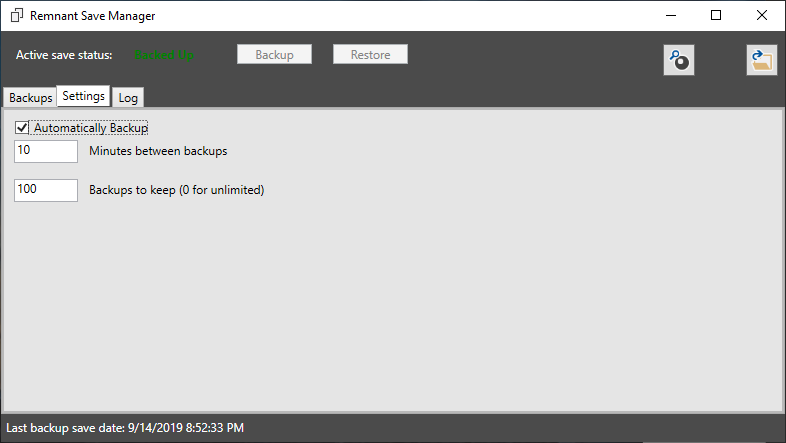
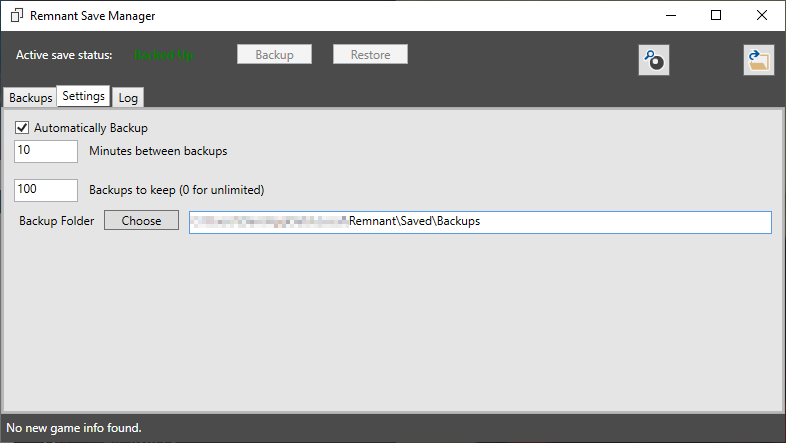
Added support for Leto's Laboratory. Additional behind the scenes bug fixes.

diff --git a/MainWindow.xaml b/MainWindow.xaml
@@ -7,10 +7,6 @@
         mc:Ignorable="d"
         Title="Remnant Save Manager" Height="450" Width="800" Loaded="Window_Loaded" Icon="Resources/Copy_32x.png" Closing="Window_Closing" Closed="Window_Closed">
     <Grid Background="#FF4B4B4B">
-        <Grid.ColumnDefinitions>
-            <ColumnDefinition Width="479*"/>
-            <ColumnDefinition Width="313*"/>
-        </Grid.ColumnDefinitions>
         <Label Content="Active save status:" HorizontalAlignment="Left" Margin="10,10,0,0" VerticalAlignment="Top" Foreground="White"/>
         <Label x:Name="lblStatus" Content="Not Backed Up" HorizontalAlignment="Left" Margin="128,10,0,0" VerticalAlignment="Top" Width="103" Background="#00000000" Foreground="Red" FontWeight="Bold"/>
         <Button x:Name="btnBackup" Content="Backup" HorizontalAlignment="Left" Margin="236,13,0,0" VerticalAlignment="Top" Width="75" Click="BtnBackup_Click"/>
@@ -28,35 +24,27 @@
             </TabItem>
             <TabItem Header="Settings" HorizontalAlignment="Left" Height="20" VerticalAlignment="Top" Width="54">
                 <Grid Background="#FFE5E5E5">
-                    <!--Grid.ColumnDefinitions>
-                        <ColumnDefinition Width="59*"/>
-                        <ColumnDefinition Width="334*"/>
-                    </-->
                     <CheckBox x:Name="chkAutoBackup" Content="Automatically Backup" HorizontalAlignment="Left" Margin="10,10,0,0" VerticalAlignment="Top" Click="ChkAutoBackup_Click" Grid.ColumnSpan="2"/>
                     <TextBox x:Name="txtBackupMins" HorizontalAlignment="Left" Height="23" Margin="10,30,0,0" TextWrapping="Wrap" VerticalAlignment="Top" Width="64" LostFocus="TxtBackupMins_LostFocus" KeyUp="TxtBackupMins_KeyUp"/>
                     <Label Content="Minutes between backups" HorizontalAlignment="Left" Margin="80,27,0,0" VerticalAlignment="Top" Grid.ColumnSpan="2" Width="188"/>
                     <TextBox x:Name="txtBackupLimit" HorizontalAlignment="Left" Height="23" Margin="10,69,0,0" TextWrapping="Wrap" VerticalAlignment="Top" Width="64" KeyUp="TxtBackupLimit_KeyUp" LostFocus="TxtBackupLimit_LostFocus"/>
                     <Label Content="Backups to keep (0 for unlimited)" HorizontalAlignment="Left" Margin="80,66,0,0" VerticalAlignment="Top" Grid.ColumnSpan="2" Width="264"/>
                     <Label Content="Backup Folder" HorizontalAlignment="Left" Margin="10,97,0,0" VerticalAlignment="Top"/>
-                    <TextBox x:Name="txtBackupFolder" HorizontalAlignment="Left" Height="23" Margin="180,101,0,0" TextWrapping="Wrap" VerticalAlignment="Top" Width="596" IsReadOnly="True"/>
+                    <TextBox x:Name="txtBackupFolder" Height="23" Margin="185,101,10,0" TextWrapping="Wrap" VerticalAlignment="Top" IsReadOnly="True"/>
                     <Button x:Name="btnBackupFolder" Content="Choose" HorizontalAlignment="Left" Margin="100,100,0,0" VerticalAlignment="Top" Width="75" Click="BtnBackupFolder_Click"/>
                 </Grid>
             </TabItem>
             <TabItem Header="Log">
                 <Grid>
-                    <Grid.ColumnDefinitions>
-                        <ColumnDefinition Width="68*"/>
-                        <ColumnDefinition Width="325*"/>
-                    </Grid.ColumnDefinitions>
                     <TextBox x:Name="txtLog" TextWrapping="Wrap" Background="White" VerticalScrollBarVisibility="Auto" Grid.ColumnSpan="2"/>
                 </Grid>
             </TabItem>
         </TabControl>
         <Label x:Name="lblLastMessage" Content="" HorizontalAlignment="Left" VerticalAlignment="Bottom" Width="792" Height="28" Background="{x:Null}" Foreground="White" Grid.ColumnSpan="2"/>
-        <Button x:Name="btnOpenFolder" HorizontalAlignment="Left" Margin="271,13,0,0" VerticalAlignment="Top" Width="32" Height="32" IsCancel="True" Foreground="Black" Click="BtnOpenFolder_Click" ToolTip="Open backups folder" Grid.Column="1">
+        <Button x:Name="btnOpenFolder" HorizontalAlignment="Right" Margin="0,13,10,0" VerticalAlignment="Top" Width="32" Height="32" IsCancel="True" Foreground="Black" Click="BtnOpenFolder_Click" ToolTip="Open backups folder">
             <Image Height="22" Width="22" Source="Resources/OpenFolder_32x.png" ToolTip="Open backups folder"/>
         </Button>
-        <Button x:Name="btnAnalyzeCurrent" HorizontalAlignment="Left" Margin="188,13,0,0" VerticalAlignment="Top" Width="32" Height="32" Click="BtnAnalyzeCurrent_Click" ToolTip="Analyze active save" Grid.Column="1">
+        <Button x:Name="btnAnalyzeCurrent" HorizontalAlignment="Right" Margin="0,13,115,0" VerticalAlignment="Top" Width="32" Height="32" Click="BtnAnalyzeCurrent_Click" ToolTip="Analyze active save">
             <Button.ContextMenu>
                 <ContextMenu/>
             </Button.ContextMenu>

diff --git a/SaveAnalyzer.xaml b/SaveAnalyzer.xaml
@@ -12,26 +12,17 @@
         <TabControl x:Name="tabAnalyzer" Margin="0,62,0,0">
             <TabItem Header="Campaign">
                 <Grid Background="#FF343A40">
-                    <Grid.ColumnDefinitions>
-                        <ColumnDefinition Width="148*"/>
-                        <ColumnDefinition Width="813*"/>
-                    </Grid.ColumnDefinitions>
                     <DataGrid x:Name="dgCampaign" Background="{x:Null}" BeginningEdit="DgCampaign_BeginningEdit" AutoGeneratingColumn="DgCampaign_AutoGeneratingColumn" IsReadOnly="True" CanUserSortColumns="False" BorderBrush="{x:Null}" Grid.ColumnSpan="2"/>
                 </Grid>
             </TabItem>
             <TabItem Header="Adventure">
                 <Grid Background="#FF343A40">
-                    <Grid.ColumnDefinitions>
-                        <ColumnDefinition Width="7*"/>
-                        <ColumnDefinition Width="255*"/>
-                    </Grid.ColumnDefinitions>
                     <DataGrid x:Name="dgAdventure" Background="#FF343A40" Grid.ColumnSpan="2" BeginningEdit="DgAdventure_BeginningEdit" AutoGeneratingColumn="DgAdventure_AutoGeneratingColumn" CanUserSortColumns="False" BorderBrush="{x:Null}" Foreground="Black" IsReadOnly="True"/>
                 </Grid>
             </TabItem>
             <TabItem Header="Missing Items">
                 <Grid Background="#FF343A40">
                     <TextBox x:Name="txtMissingItems" TextWrapping="Wrap" Background="{x:Null}" BorderBrush="{x:Null}" Foreground="Red" VerticalScrollBarVisibility="Auto" FontSize="14" Padding="5,5,0,0" IsReadOnly="True"/>
-
                 </Grid>
             </TabItem>
             <TabItem Header="Credits">

diff --git a/MainWindow.xaml.cs b/MainWindow.xaml.cs
@@ -192,17 +192,23 @@ namespace RemnantSaveManager
             if (activeBackup != null)
             {
                 dataBackups.SelectedItem = activeBackup;
+            }
+            SetActiveSaveIsBackedup(activeBackup != null);
+        }
+
+        private void SetActiveSaveIsBackedup(bool backedUp)
+        {
+            if (backedUp)
+            {
                 lblStatus.Content = "Backed Up";
                 lblStatus.Foreground = Brushes.Green;
                 btnBackup.IsEnabled = false;
-                btnRestore.IsEnabled = false;
             }
             else
             {
                 lblStatus.Content = "Not Backed Up";
                 lblStatus.Foreground = Brushes.Red;
                 btnBackup.IsEnabled = true;
-                btnRestore.IsEnabled = false;
             }
         }
 
@@ -280,29 +286,58 @@ namespace RemnantSaveManager
             doBackup();
         }
 
-        private void doBackup(bool overwrite)
+        private void doBackup()
         {
             try
             {
                 bool dirExisted = true;
                 DateTime saveDate = File.GetLastWriteTime(saveDirPath + "\\profile.sav");
-                if (!Directory.Exists(backupDirPath + "\\" + saveDate.Ticks))
+                string backupFolder = backupDirPath + "\\" + saveDate.Ticks;
+                if (!Directory.Exists(backupFolder))
                 {
-                    Directory.CreateDirectory(backupDirPath + "\\" + saveDate.Ticks);
+                    Directory.CreateDirectory(backupFolder);
                     dirExisted = false;
                 }
-                if (!dirExisted || (dirExisted && overwrite))
-                {
+                /*if (!dirExisted || (dirExisted && overwrite))
+                {*/
                     foreach (var file in Directory.GetFiles(saveDirPath))
-                        File.Copy(file, backupDirPath + "\\" + saveDate.Ticks + "\\" + System.IO.Path.GetFileName(file), true);
+                        File.Copy(file, backupFolder + "\\" + System.IO.Path.GetFileName(file), true);
+                    /*if (!dirExisted && !overwrite)
+                    {*/
+                        if (RemnantSave.ValidSaveFolder(backupFolder))
+                        {
+                            Dictionary<long, string> backupNames = getSavedBackupNames();
+                            Dictionary<long, bool> backupKeeps = getSavedBackupKeeps();
+                            SaveBackup backup = new SaveBackup(backupFolder);
+                            if (backupNames.ContainsKey(backup.SaveDate.Ticks))
+                            {
+                                backup.Name = backupNames[backup.SaveDate.Ticks];
+                            }
+                            if (backupKeeps.ContainsKey(backup.SaveDate.Ticks))
+                            {
+                                backup.Keep = backupKeeps[backup.SaveDate.Ticks];
+                            }
+                            foreach (SaveBackup saveBackup in listBackups)
+                            {
+                                saveBackup.Active = false;
+                            }
+                            backup.Active = true;
+                            activeSave = backup.Save;
+                            backup.Updated += saveUpdated;
+                            listBackups.Add(backup);
+                        }
+                    //}
                     checkBackupLimit();
-                    loadBackups(false);
+                    dataBackups.Items.Refresh();
+                    SetActiveSaveIsBackedup(true);
+                    btnBackup.IsEnabled = false;
+                    //loadBackups(false);
                     logMessage($"Backup completed ({saveDate.ToString()})!");
-                }
+                /*}
                 else
                 {
                     logMessage("This save is already backed up.");
-                }
+                }*/
             }
             catch (IOException ex)
             {
@@ -310,15 +345,15 @@ namespace RemnantSaveManager
                 {
                     logMessage("Save file in use; waiting 0.5 seconds and retrying.");
                     System.Threading.Thread.Sleep(500);
-                    doBackup(overwrite);
+                    doBackup();
                 }
             }
         }
 
-        private void doBackup()
+        /*private void doBackup()
         {
             doBackup(false);
-        }
+        }*/
 
         private Boolean isRemnantRunning()
         {
@@ -352,11 +387,19 @@ namespace RemnantSaveManager
                 {
                     file.Delete();
                 }
-
-                string backupFolder = ((SaveBackup)dataBackups.SelectedItem).SaveDate.Ticks.ToString();
-                foreach (var file in Directory.GetFiles(backupDirPath + "\\" + backupFolder))
+                SaveBackup selectedBackup = (SaveBackup)dataBackups.SelectedItem;
+                foreach (var file in Directory.GetFiles(backupDirPath + "\\" + selectedBackup.SaveDate.Ticks))
                     File.Copy(file, saveDirPath + "\\" + System.IO.Path.GetFileName(file));
-                loadBackups(false);
+                //loadBackups(false);
+                foreach (SaveBackup saveBackup in listBackups)
+                {
+                    saveBackup.Active = false;
+                }
+                selectedBackup.Active = true;
+                activeSave = selectedBackup.Save;
+                dataBackups.Items.Refresh();
+                //SetActiveSaveIsBackedup(true);
+                btnRestore.IsEnabled = false;
                 logMessage("Backup restored!");
                 saveWatcher.EnableRaisingEvents = Properties.Settings.Default.AutoBackup;
             }
@@ -402,7 +445,7 @@ namespace RemnantSaveManager
                 }
                 if (DateTime.Compare(DateTime.Now, newBackupTime) > 0 || DateTime.Compare(latestBackupTime, File.GetLastWriteTime(e.FullPath)) == 0)
                 {
-                    doBackup(true);
+                    doBackup();
                 } else
                 {
                     lblStatus.Content = "Not Backed Up";
@@ -651,7 +694,7 @@ namespace RemnantSaveManager
             //MenuItem infoMenu = ((MenuItem)dataBackups.ContextMenu.Items[2]);
             if (e.AddedItems.Count > 0)
             {
-                SaveBackup selectedBackup = (SaveBackup)(e.AddedItems[0]);
+                SaveBackup selectedBackup = (SaveBackup)(dataBackups.SelectedItem);
                 if (backupActive(selectedBackup))
                 {
                     btnRestore.IsEnabled = false;

diff --git a/RemnantCharacter.cs b/RemnantCharacter.cs
@@ -177,7 +177,7 @@ namespace RemnantSaveManager
                         if (eventName != null)
                         {
                             se.setKey(eventName);
-                            se.Name = eventName.Replace("LizAndLiz", "ATaleOfTwoLiz's").Replace("Fatty", "TheUncleanOne").Replace("WastelandGuardian", "Claviger").Replace("RootEnt", "TheEnt").Replace("Wolf", "TheRavager").Replace("RootDragon", "Singe").Replace("SwarmMaster", "Scourge").Replace("RootWraith", "Shroud").Replace("RootTumbleweed", "TheMangler").Replace("Kincaller", "Warden").Replace("Tyrant", "Thrall").Replace("Vyr", "ShadeAndShatter").Replace("ImmolatorAndZephyr", "ScaldAndSear").Replace("RootBrute", "Gorefist").Replace("SlimeHulk", "Canker").Replace("BlinkFiend", "Onslaught").Replace("Sentinel", "Raze").Replace("Penitent", "Leto'sAmulet").Replace("LastWill", "SupplyRun").Replace("SwampGuardian", "Ixillis").Replace("OldManAndConstruct", "WudAndAncientConstruct");
+                            se.Name = eventName.Replace("LizAndLiz", "TaleOfTwoLiz's").Replace("Fatty", "TheUncleanOne").Replace("WastelandGuardian", "Claviger").Replace("RootEnt", "TheEnt").Replace("Wolf", "TheRavager").Replace("RootDragon", "Singe").Replace("SwarmMaster", "Scourge").Replace("RootWraith", "Shroud").Replace("RootTumbleweed", "TheMangler").Replace("Kincaller", "Warden").Replace("Tyrant", "Thrall").Replace("Vyr", "ShadeAndShatter").Replace("ImmolatorAndZephyr", "ScaldAndSear").Replace("RootBrute", "Gorefist").Replace("SlimeHulk", "Canker").Replace("BlinkFiend", "Onslaught").Replace("Sentinel", "Raze").Replace("Penitent", "Leto'sAmulet").Replace("LastWill", "SupplyRun").Replace("SwampGuardian", "Ixillis").Replace("OldManAndConstruct", "WudAndAncientConstruct").Replace("Splitter","Riphide");
                             se.Name = Regex.Replace(se.Name, "([a-z])([A-Z])", "$1 $2");
                         }
 

diff --git a/Properties/AssemblyInfo.cs b/Properties/AssemblyInfo.cs
@@ -51,5 +51,5 @@ using System.Windows;
 // You can specify all the values or you can default the Build and Revision Numbers
 // by using the '*' as shown below:
 // [assembly: AssemblyVersion("1.0.*")]
-[assembly: AssemblyVersion("1.94.0.0")]
-[assembly: AssemblyFileVersion("1.94.0.0")]
+[assembly: AssemblyVersion("1.95.0.0")]
+[assembly: AssemblyFileVersion("1.95.0.0")]
